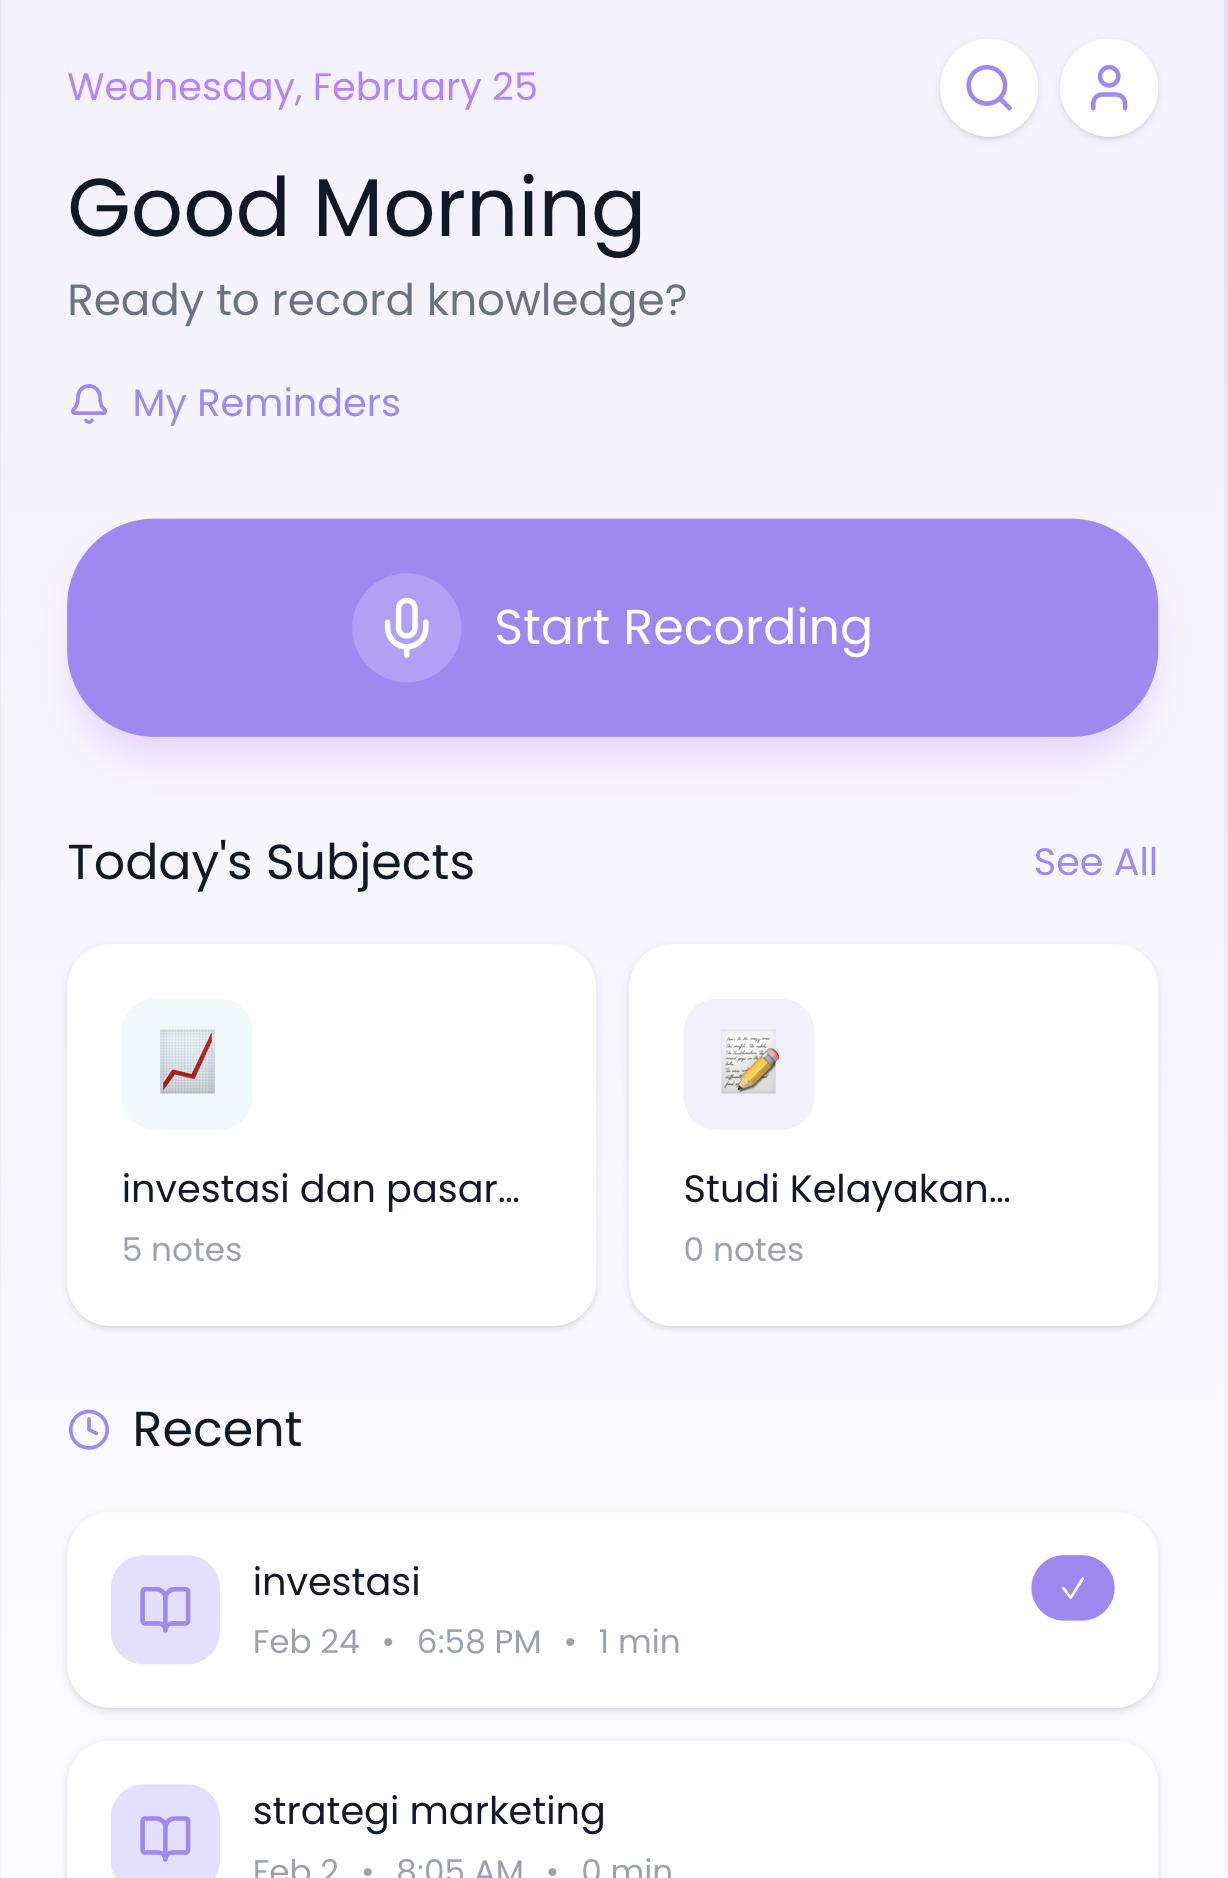
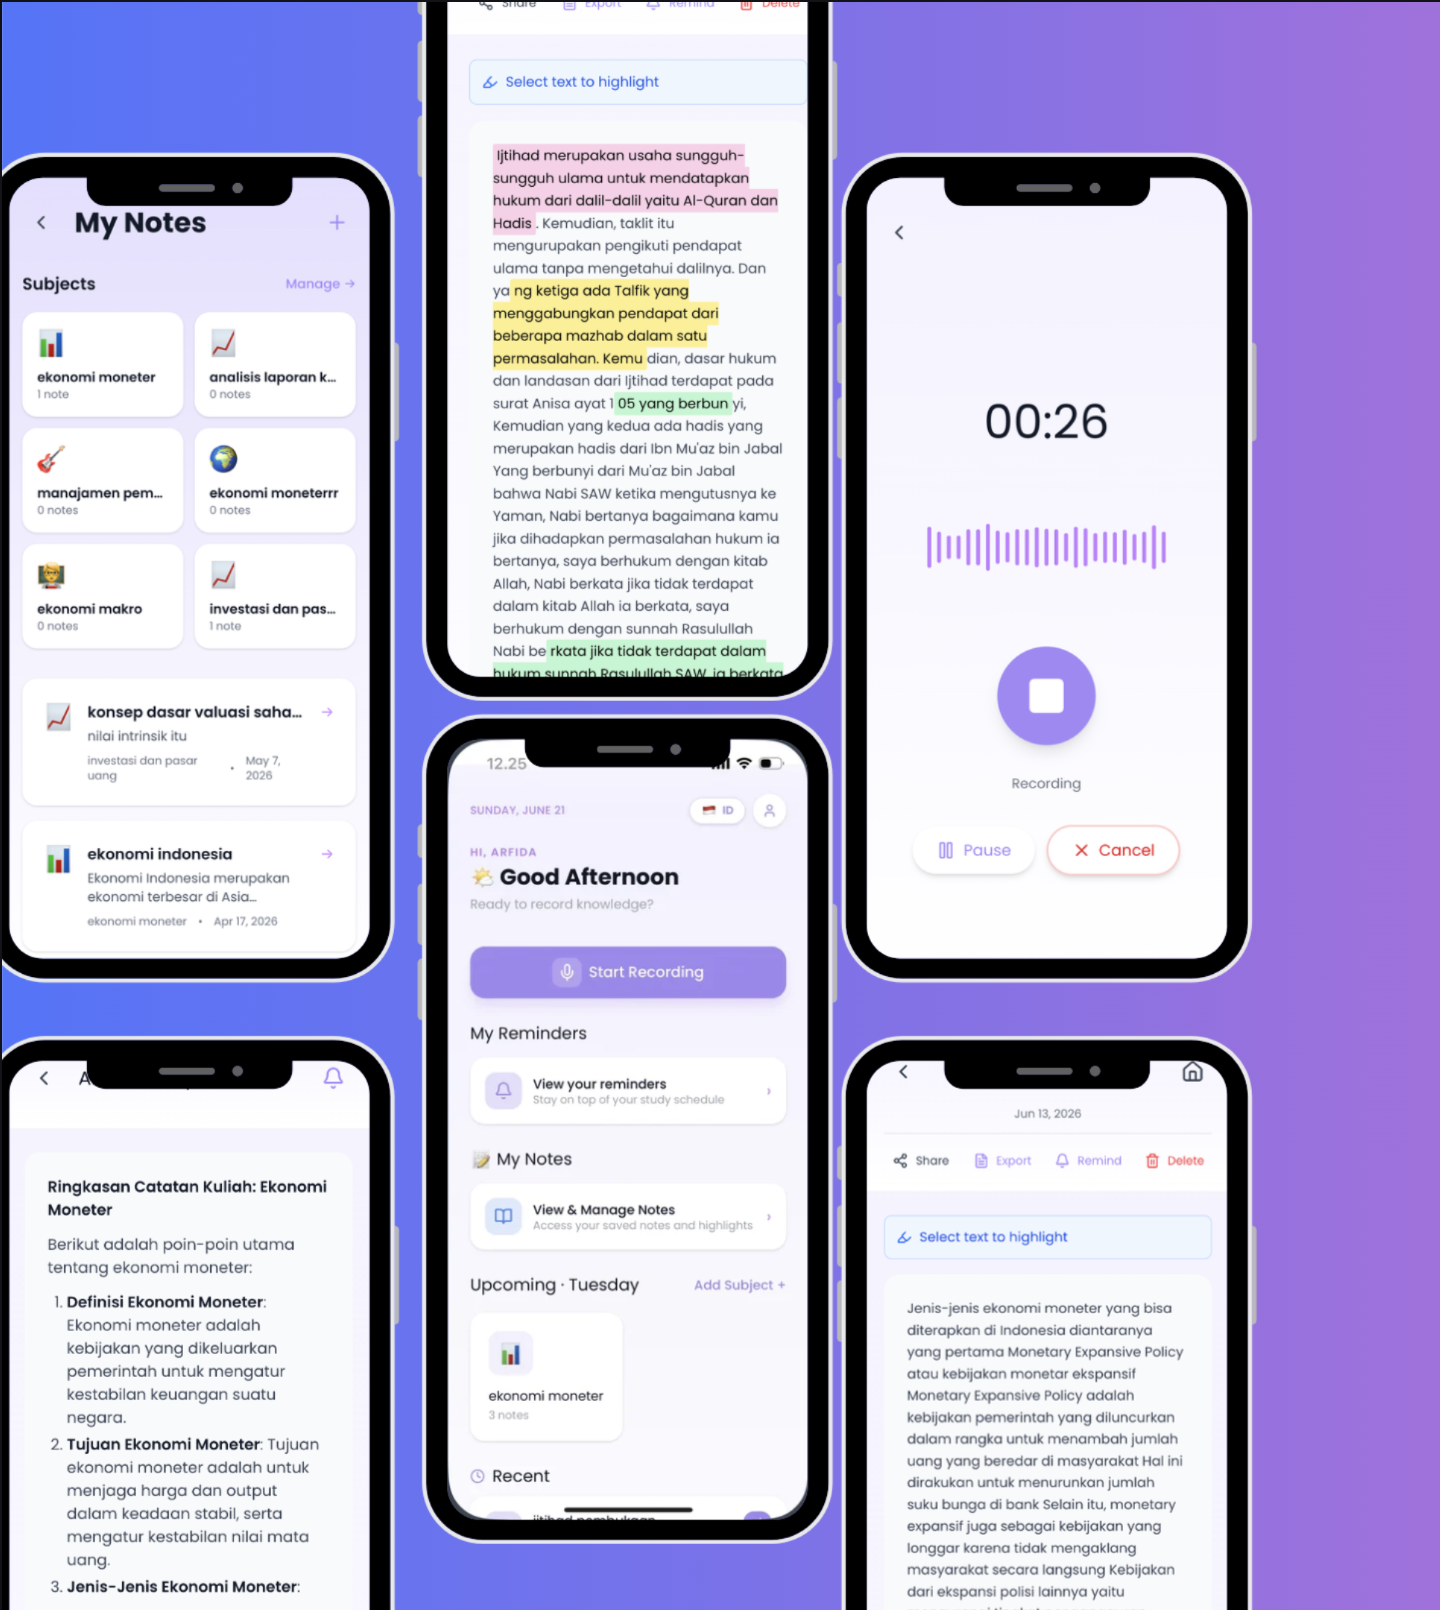
update pidct portofolio data

diff --git a/arfidakai/app/components/Contact.tsx b/arfidakai/app/components/Contact.tsx
@@ -2,13 +2,22 @@
 
 import React from 'react';
 import { motion } from 'motion/react';
-import { Mail, Github, Linkedin, Twitter, Send } from 'lucide-react';
+import { Mail, Github, Linkedin, Send } from 'lucide-react';
 import { portfolioData } from '@/data/portfolio-data';
 
-const socialIconMap = {
-  Linkedin: <Linkedin className="w-5 h-5" />,
-  Github: <Github className="w-5 h-5" />,
-  Twitter: <Twitter className="w-5 h-5" />,
+import * as Icons from "lucide-react";
+
+console.log(Object.keys(Icons).filter(i =>
+  i.toLowerCase().includes("git")
+));
+
+console.log(Object.keys(Icons).filter(i =>
+  i.toLowerCase().includes("link")
+));
+
+const socialIconMap: Record<string, React.ReactNode> = {
+  LinkedIn: <Linkedin className="w-5 h-5" />,
+  GitHub: <Github className="w-5 h-5" />,
 };
 
 export const Contact = () => {
@@ -35,6 +44,7 @@ export const Contact = () => {
                   <Mail className="w-6 h-6" />
                 </div>
                 <span>{contact.email}</span>
+                
               </a>
             </div>
 

diff --git a/arfidakai/app/components/Footer.tsx b/arfidakai/app/components/Footer.tsx
@@ -22,9 +22,9 @@ export const Footer = () => {
             <a href="#" className="text-sm font-bold text-stone-400 hover:text-white transition-colors uppercase tracking-widest">Process</a>
             <a href="#" className="text-sm font-bold text-stone-400 hover:text-white transition-colors uppercase tracking-widest">Blog</a>
           </div>
-          <div className="text-stone-600 text-xs font-medium tracking-widest uppercase">
-            © 2026 Designed & Developed by Maya
-          </div>
+          {/* <div className="text-stone-600 text-xs font-medium tracking-widest uppercase">
+            © 2026 Designed & Developed by
+          </div> */}
         </div>
       </div>
     </footer>

diff --git a/arfidakai/data/portfolio-data.ts b/arfidakai/data/portfolio-data.ts
@@ -113,7 +113,7 @@ export const portfolioData = {
       "Creative and AI-driven web applications built from curiosity and structured problem-solving.",
     items: [
       {
-        title: "LectureLu – AI-Powered Study Companion",
+        title: "Lecturely – AI-Powered Study Companion",
         description:
           "An AI-assisted academic productivity web app that helps students organize lecture notes, summarize complex materials, and structure efficient study workflows.",
         image: "/lecturely.png",
@@ -167,8 +167,8 @@ export const portfolioData = {
       "I'm open to collaboration in web development, AI experimentation, and building digital products that solve real problems.",
     email: "[email redacted]",
     socials: [
-      { platform: "LinkedIn", url: "https://linkedin.com/in/yourprofile" },
-      { platform: "GitHub", url: "https://github.com/yourusername" },
+      { platform: "LinkedIn", url: "https://linkedin.com/in/arfidapinata" },
+      { platform: "GitHub", url: "https://github.com/arfidakai" },
     ],
   },
 